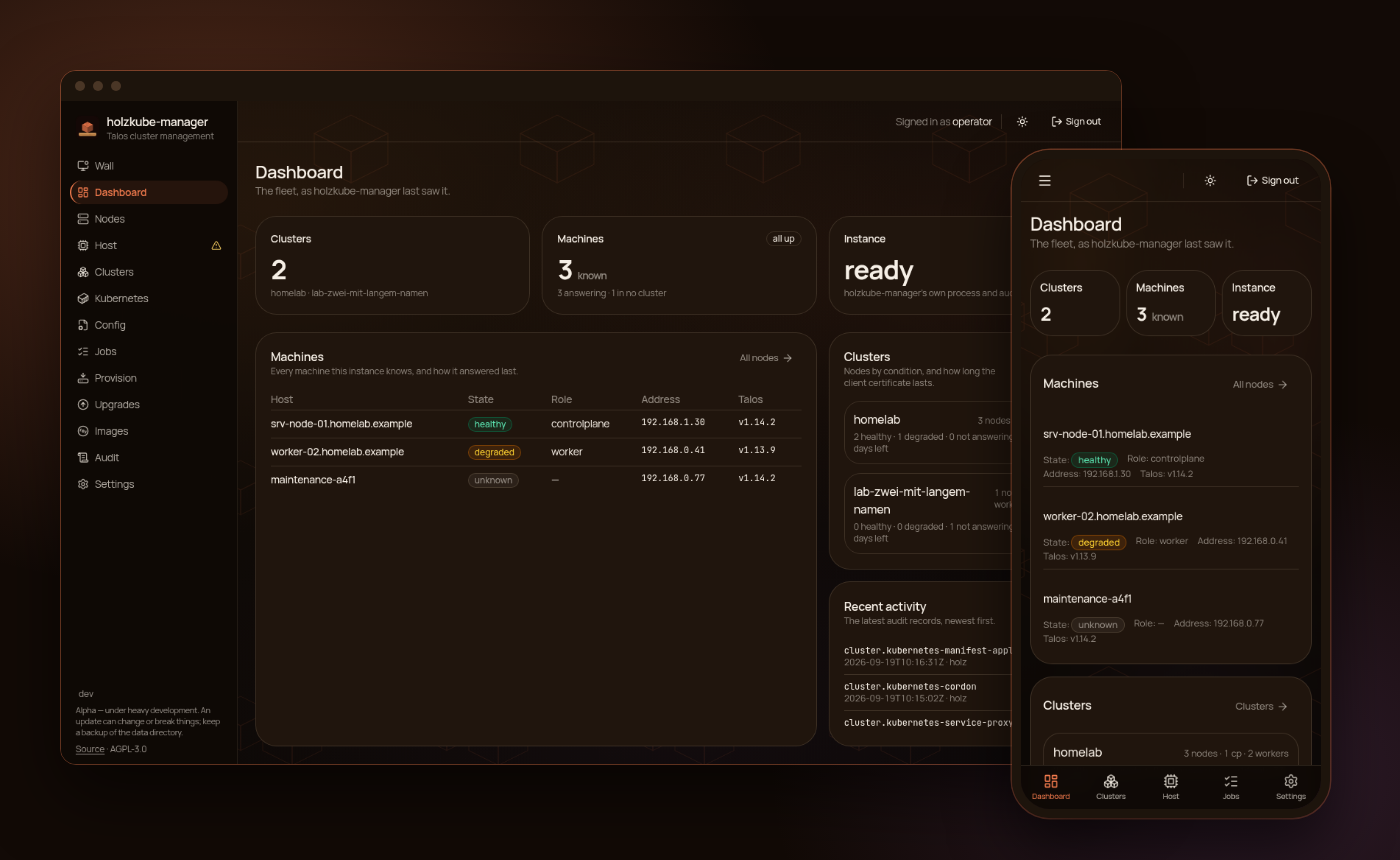
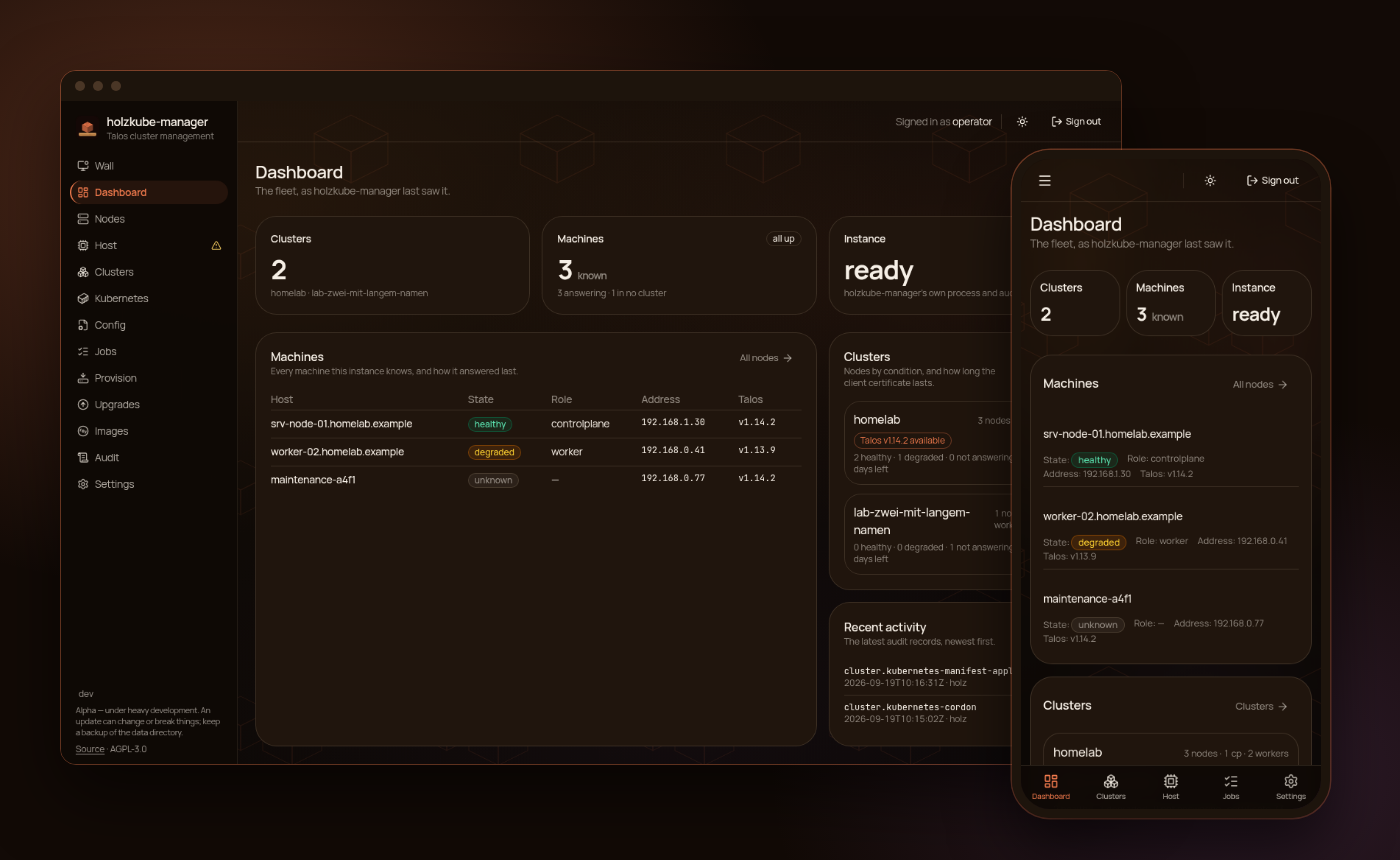
Interface: use the space better on desk, tablet and phone
Settings, Config and Jobs go to two columns from xl, Nodes is a card, the
dashboard's clusters and recent activity sit side by side on a tablet, a
cluster's downloads and actions are a row each, and a phone's table row is a
card with two values to a line. Seen at 1440, 820 and 390 px in rendered
pages; lint, 855 jsdom, 27 browser tests and the layout audit green.
Changelog v0.4.0 carries it, screenshots rendered again.

Claude-Session: https://claude.ai/code/session_01NtRnCYXbriV4BjszEhUnec

Changed region(s): [[0.5836, 0.6953, 0.7371, 0.8465], [0.6143, 0.4837, 0.7064, 0.6651]]

diff --git a/web/src/routes/nodes.tsx b/web/src/routes/nodes.tsx
@@ -66,90 +66,97 @@ export function NodesPage() {
   return (
     <section className="space-y-4">
       <Heading />
-      <DataTable
-        label="Machines"
-        rows={machines}
-        keyOf={(m) => m.id}
-        empty="No machines yet."
-        columns={[
-          {
-            key: 'host',
-            label: 'Host',
-            role: 'identity',
-            className: 'font-medium',
-            render: (m) => (
-              <>
-                <Link
-                  to="/nodes/$uuid"
-                  params={{ uuid: m.id }}
-                  // A whole line on a phone: measured 172x19 before, which is
-                  // under the 44px a thumb needs and was invisible to the guard
-                  // until it rendered rows at all (ledger 149).
-                  className="inline-flex items-center hover:underline max-md:min-h-11"
-                >
-                  <HealthField field={m.hostname} render={(v) => v || m.id.slice(0, 8)} />
-                </Link>
-                {m.lost_addr && (
-                  <Badge
-                    variant="outline"
-                    className="ml-2 border-amber-600/40 text-amber-700 dark:text-amber-300"
-                    title="A different machine answered at this one's last known address. This record was kept; the stranger got one of its own."
+      <div className="rounded-2xl border border-border bg-card p-4 max-md:border-0 max-md:bg-transparent max-md:p-0">
+        <DataTable
+          label="Machines"
+          rows={machines}
+          keyOf={(m) => m.id}
+          empty="No machines yet."
+          columns={[
+            {
+              key: 'host',
+              label: 'Host',
+              role: 'identity',
+              className: 'font-medium',
+              render: (m) => (
+                <>
+                  <Link
+                    to="/nodes/$uuid"
+                    params={{ uuid: m.id }}
+                    // A whole line on a phone: measured 172x19 before, which is
+                    // under the 44px a thumb needs and was invisible to the guard
+                    // until it rendered rows at all (ledger 149).
+                    className="inline-flex items-center hover:underline max-md:min-h-11"
                   >
-                    moved
-                  </Badge>
-                )}
-              </>
-            ),
-          },
-          { key: 'state', label: 'State', render: (m) => <MachineState machine={m} /> },
-          { key: 'role', label: 'Role', className: 'text-sm', render: (m) => m.role || '—' },
-          {
-            key: 'addr',
-            label: 'Address',
-            className: 'font-mono text-xs',
-            render: (m) => <HealthField field={m.addr} />,
-          },
-          {
-            key: 'talos',
-            label: 'Talos',
-            className: 'font-mono text-xs',
-            render: (m) => <HealthField field={m.talos_version} />,
-          },
-          {
-            key: 'kubernetes',
-            label: 'Kubernetes',
-            className: 'font-mono text-xs',
-            render: (m) => <HealthField field={m.kubernetes_version} />,
-          },
-          {
-            key: 'cluster',
-            label: 'Cluster',
-            className: 'text-sm',
-            render: (m) =>
-              m.cluster === '' ? (
-                <span className="text-muted-foreground" title="This machine belongs to no cluster.">
-                  —
-                </span>
-              ) : (
-                <Link
-                  to="/clusters"
-                  className="inline-flex items-center hover:underline max-md:min-h-11"
-                  title={`Cluster ${m.cluster}`}
-                >
-                  {m.cluster.slice(0, 8)}
-                </Link>
+                    <HealthField field={m.hostname} render={(v) => v || m.id.slice(0, 8)} />
+                  </Link>
+                  {m.lost_addr && (
+                    <Badge
+                      variant="outline"
+                      className="ml-2 border-amber-600/40 text-amber-700 dark:text-amber-300"
+                      title="A different machine answered at this one's last known address. This record was kept; the stranger got one of its own."
+                    >
+                      moved
+                    </Badge>
+                  )}
+                </>
               ),
-          },
-          {
-            key: 'refresh',
-            label: 'Ask now',
-            role: 'actions',
-            render: (m) => <RefreshButton machine={m} />,
-          },
-        ]}
-      />
+            },
+            { key: 'state', label: 'State', render: (m) => <MachineState machine={m} /> },
+            { key: 'role', label: 'Role', className: 'text-sm', render: (m) => m.role || '—' },
+            {
+              key: 'addr',
+              label: 'Address',
+              className: 'font-mono text-xs',
+              render: (m) => <HealthField field={m.addr} />,
+            },
+            {
+              key: 'talos',
+              label: 'Talos',
+              className: 'font-mono text-xs',
+              render: (m) => <HealthField field={m.talos_version} />,
+            },
+            {
+              key: 'kubernetes',
+              label: 'Kubernetes',
+              className: 'font-mono text-xs',
+              render: (m) => <HealthField field={m.kubernetes_version} />,
+            },
+            {
+              key: 'cluster',
+              label: 'Cluster',
+              className: 'text-sm',
+              render: (m) =>
+                m.cluster === '' ? (
+                  <span
+                    className="text-muted-foreground"
+                    title="This machine belongs to no cluster."
+                  >
+                    —
+                  </span>
+                ) : (
+                  <Link
+                    to="/clusters"
+                    className="inline-flex items-center hover:underline max-md:min-h-11"
+                    title={`Cluster ${m.cluster}`}
+                  >
+                    {m.cluster.slice(0, 8)}
+                  </Link>
+                ),
+            },
+            {
+              key: 'refresh',
+              label: 'Ask now',
+              role: 'actions',
+              render: (m) => <RefreshButton machine={m} />,
+            },
+          ]}
+        />
+      </div>
 
-      <MachineClasses />
+      <div className="rounded-2xl border border-border bg-card p-4">
+        <MachineClasses />
+      </div>
     </section>
   )
 }

diff --git a/web/src/routes/clusters.tsx b/web/src/routes/clusters.tsx
@@ -164,7 +164,7 @@ export function ClusterCard({ cluster }: { cluster: Cluster }) {
           </dd>
         </dl>
 
-        <div className="flex flex-col gap-1">
+        <div className="flex flex-wrap gap-x-5 gap-y-1">
           <a
             href={api.clusters.talosconfigPath(cluster.id)}
             className="inline-flex items-center text-sm underline max-md:min-h-11"
@@ -212,31 +212,33 @@ export function ClusterCard({ cluster }: { cluster: Cluster }) {
           </a>
         </div>
 
-        <Button
-          size="sm"
-          variant="outline"
-          disabled={setLock.isPending}
-          onClick={() => setLock.mutate(!cluster.locked)}
-          title={
-            cluster.locked
-              ? 'Unlocking is itself a destructive action: it is what makes every other destructive action on this cluster reachable.'
-              : 'Lock this cluster so that nothing can change it.'
-          }
-        >
-          {cluster.locked ? (
-            <>
-              <LockOpen aria-hidden="true" className="size-4" /> Unlock
-            </>
-          ) : (
-            <>
-              <Lock aria-hidden="true" className="size-4" /> Lock
-            </>
-          )}
-        </Button>
+        <div className="flex flex-wrap items-start gap-2">
+          <Button
+            size="sm"
+            variant="outline"
+            disabled={setLock.isPending}
+            onClick={() => setLock.mutate(!cluster.locked)}
+            title={
+              cluster.locked
+                ? 'Unlocking is itself a destructive action: it is what makes every other destructive action on this cluster reachable.'
+                : 'Lock this cluster so that nothing can change it.'
+            }
+          >
+            {cluster.locked ? (
+              <>
+                <LockOpen aria-hidden="true" className="size-4" /> Unlock
+              </>
+            ) : (
+              <>
+                <Lock aria-hidden="true" className="size-4" /> Lock
+              </>
+            )}
+          </Button>
 
-        <RenewCertificate clusterID={cluster.id} />
+          <RenewCertificate clusterID={cluster.id} />
 
-        <RotateAuthority clusterID={cluster.id} />
+          <RotateAuthority clusterID={cluster.id} />
+        </div>
 
         <ClusterScalePanel clusterID={cluster.id} />
 

diff --git a/web/src/components/DataTable.tsx b/web/src/components/DataTable.tsx
@@ -207,10 +207,10 @@ function PhoneCard<T>({ columns, row }: { columns: Column<T>[]; row: T }) {
       </div>
 
       {facts.length > 0 && (
-        <dl className="mt-2 grid grid-cols-[minmax(0,auto)_minmax(0,1fr)] gap-x-3 gap-y-1 text-sm">
+        <dl className="mt-2 grid grid-cols-2 gap-x-4 gap-y-2 text-sm">
           {facts.map((column) => (
-            <div key={column.key} className="contents">
-              <dt className="text-muted-foreground">{column.label}</dt>
+            <div key={column.key} className="min-w-0">
+              <dt className="text-muted-foreground text-xs">{column.label}</dt>
               <dd className="break-words">{column.render(row)}</dd>
             </div>
           ))}
@@ -285,10 +285,10 @@ function PhoneRow<T>({ columns, row }: { columns: Column<T>[]; row: T }) {
           </span>
         </summary>
 
-        <dl className="grid grid-cols-[minmax(0,auto)_minmax(0,1fr)] gap-x-3 gap-y-1 pb-3 text-sm">
+        <dl className="grid grid-cols-2 gap-x-4 gap-y-2 pb-3 text-sm">
           {detail.map((column) => (
-            <div key={column.key} className="contents">
-              <dt className="text-muted-foreground">{column.label}</dt>
+            <div key={column.key} className="min-w-0">
+              <dt className="text-muted-foreground text-xs">{column.label}</dt>
               <dd className="break-words">{column.render(row)}</dd>
             </div>
           ))}

diff --git a/web/src/routes/settings.tsx b/web/src/routes/settings.tsx
@@ -57,16 +57,25 @@ export function SettingsPage() {
         </p>
       </div>
 
-      <PasswordCard />
-      <AdminOnly>
-        <AccountsCard />
-      </AdminOnly>
-      <AdminOnly>
-        <WallLinksCard />
-      </AdminOnly>
-      <SupportCard />
-      <MetricsCard />
-      <BackupCard />
+      {/* Two columns from xl: the short cards sit side by side, and the two
+          that hold tables go across both. An admin-only wrapper that renders
+          nothing is hidden, so a reader does not get an empty row. */}
+      <div className="grid items-start gap-5 xl:grid-cols-2">
+        <PasswordCard />
+        <SupportCard />
+        <div className="empty:hidden xl:col-span-2">
+          <AdminOnly>
+            <AccountsCard />
+          </AdminOnly>
+        </div>
+        <div className="empty:hidden xl:col-span-2">
+          <AdminOnly>
+            <WallLinksCard />
+          </AdminOnly>
+        </div>
+        <MetricsCard />
+        <BackupCard />
+      </div>
     </section>
   )
 }

diff --git a/web/src/routes/jobs.tsx b/web/src/routes/jobs.tsx
@@ -76,9 +76,11 @@ export function JobsPage() {
       {parked.length > 0 && (
         <div className="space-y-3">
           <h2 className="font-heading text-base font-semibold">Waiting for a decision</h2>
-          {parked.map((j) => (
-            <JobCard key={j.id} job={j} typical={typicalSecondsFor(j.kind, jobs)} />
-          ))}
+          <div className="grid gap-3 xl:grid-cols-2">
+            {parked.map((j) => (
+              <JobCard key={j.id} job={j} typical={typicalSecondsFor(j.kind, jobs)} />
+            ))}
+          </div>
         </div>
       )}
 
@@ -86,7 +88,7 @@ export function JobsPage() {
         <p className="text-sm text-muted-foreground">Nothing has been run yet.</p>
       )}
 
-      <div className="space-y-3">
+      <div className="grid items-start gap-3 xl:grid-cols-2">
         {rest.map((j) => (
           <JobCard key={j.id} job={j} typical={typicalSecondsFor(j.kind, jobs)} />
         ))}

diff --git a/web/src/routes/config.tsx b/web/src/routes/config.tsx
@@ -75,11 +75,16 @@ export function ConfigPage() {
         </div>
       )}
 
-      {chosen !== '' && (
-        <NodeConfig machine={machines.data?.find((m) => m.id === chosen)} machineID={chosen} />
-      )}
-
-      <PatchLibrary />
+      {/* Side by side from xl: the node's configuration and the change you draft
+          on the left, the saved patches you reuse on the right. */}
+      <div className="grid items-start gap-5 xl:grid-cols-[minmax(0,3fr)_minmax(0,2fr)]">
+        <div className="space-y-5">
+          {chosen !== '' && (
+            <NodeConfig machine={machines.data?.find((m) => m.id === chosen)} machineID={chosen} />
+          )}
+        </div>
+        <PatchLibrary />
+      </div>
     </section>
   )
 }

diff --git a/web/src/routes/index.tsx b/web/src/routes/index.tsx
@@ -260,7 +260,7 @@ function Dashboard() {
           )}
         </Panel>
 
-        <div className="flex min-h-0 flex-col gap-4">
+        <div className="grid min-h-0 gap-4 sm:grid-cols-2 lg:flex lg:flex-col">
           <Panel
             title="Clusters"
             hint="Nodes by condition, and how long the client certificate lasts."
